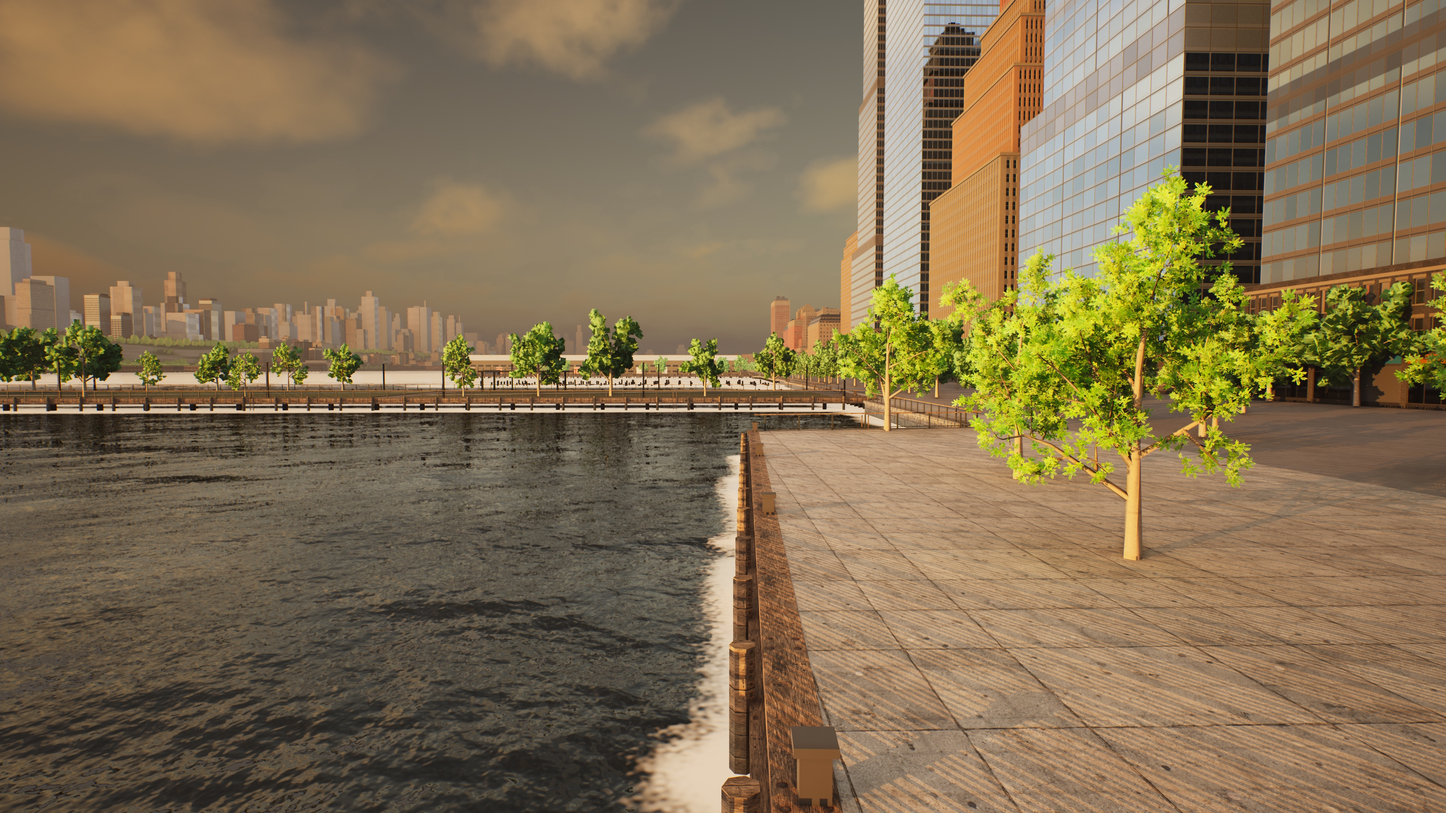
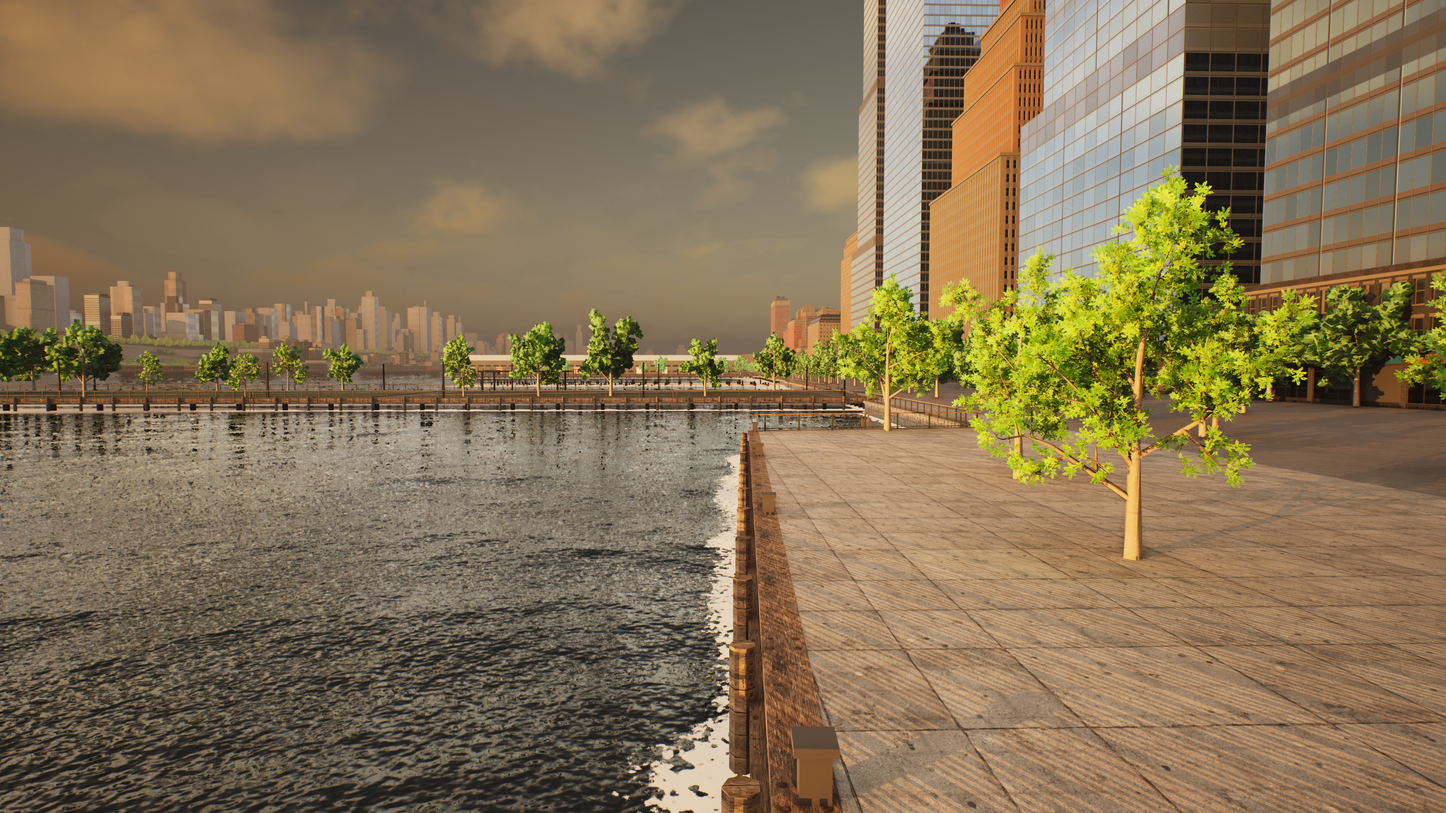
WIP water r05b: lace-everywhere foam (BreathK, CovMax 0.68, CBias 1.0, FoamTK 28) after the CovMax 0.9 build failed gate 2 (min pair 0.106); hold H script, static pair screen
Builder: Claude Sonnet 5.5 xhigh via Devin

Changed region(s): [[0.0, 0.4343, 0.625, 1.0]]

diff --git a/unreal/WebHomage/Scripts/build_water.py b/unreal/WebHomage/Scripts/build_water.py
@@ -371,8 +371,11 @@ float cf = 0.0, wf = 0.0, farF = 0.0, dbgC = 32.0, dbgL = 99.0;   // dbgC / dbgL
     float cdm = craw * %(cmax).1f;
     // r04: Dbg 4 showed no contact coverage at the river_low bulkhead (the depth test finds no geometry under the water there, and the
     //      0.9 m/px map reads 1.7 to 2.6 m at the built wall face: its contact line wanders +-3 m): the map term reaches CBias m further
-    float ce0 = 0.12 + CBias; dbgC = cdm;
-    cf = max(cf, 1.0 - smoothstep(ce0, max(0.45 + CBias * 0.5 + 1.5 * fn + 0.9 * lap, ce0 + 0.3), cdm));
+    // r05b: the band breathes with the swell (BreathK): a solid band wider than the gate's 60 px window cannot change between frames; the
+    //       lace has to fill the window and move (dolly gate 2: XOR / OR of the band masks at 4 fps, r05 build 0.197 min, CovMax 0.9 build 0.106)
+    float brt = 1.0 + BreathK * sin(t * BreathW + dot(p, float2(1.3, -0.9)) + 6.0 * fn);
+    float ce0 = (0.12 + CBias) * brt; dbgC = cdm;
+    cf = max(cf, 1.0 - smoothstep(ce0, max((0.45 + CBias * 0.5 + 1.5 * fn + 0.9 * lap) * brt, ce0 + 0.3), cdm));
     float foam = cf * (0.4 + 0.45 * lap) * smoothstep(0.25, 0.6, NZG(p / 3.1 + float2(-t * 0.02, t * 0.013), 1.0 / 3.1).r + 0.25 * lap) * FoamK;
     foam = max(foam, smoothstep(0.8, 1.0, crest) * smoothstep(0.55, 0.9, gust) * 0.2);
     // r05b: CovMax < 1 keeps the foam threshold above the noise floor (lace instead of a solid strip: the r05 band was one flat cream sheet
@@ -522,7 +525,7 @@ WP_MAPS = ('/Game/Maps/Manhattan_WP',)   # island piece's World Partition map(s)
 PARAMS = {'ChopK': 2.6, 'MicroK': 1.0, 'ScatK': 0.04, 'FarVarK': 0.1, 'FoamK': 1.8, 'BendK': 0.3, 'RoughN': 0.06, 'SpecK': 2.0,
           # r04 (far field from swing height, foam normal, perf): see docs/night1/water/round-04/NOTES.md
           'LongK': 3.0, 'FarRough': 0.2, 'TopVarK': 0.1, 'GrazeRough': 0.0, 'FoamNK': 3.0, 'GlitDist': 4000.0, 'GlitFar': 8.0,
-          'CBias': 0.7, 'SunClampK': 1.0, 'MidK': 2.0, 'ChopFar': 0.0,
+          'CBias': 1.0, 'SunClampK': 1.0, 'MidK': 2.0, 'ChopFar': 0.0,
           # r05: GrazeRough 0 (r04's 0.42 grazing floor blurred the far-shore reflection at river level: merge-blocker; perf is not this
           # round's gate). CSel: which contact-map texture (0 = T_WaterContact as r04, 1 = B: half-res Interchange + NeverStream,
           # 2 = C: half-res legacy TextureFactory; Dbg 9 showed all three read correctly in-engine). ShoreCalm: the far-field long-wave
@@ -533,8 +536,8 @@ PARAMS = {'ChopK': 2.6, 'MicroK': 1.0, 'ScatK': 0.04, 'FarVarK': 0.1, 'FoamK': 1
           # r05b: FarMaxM / FarLowK cap the far contact line (r05's FarPx footprints painted a 40 px white bar over the far quay at river
           # level); FarEmisK: the far line also as emission (candidate); CovMax / FoamTK / LapW: lacy, drifting near foam (gate 2: XOR / OR
           # fell to 0.2 where the solid band was widest); RCalm / LFa / LFb: river-level calm and the LongK ramp; GSpread: glitter facet spread
-          'FarMaxM': 16.0, 'FarLowK': 0.7, 'FarEmisK': 0.0, 'CovMax': 0.9, 'FoamTK': 14.0, 'LapW': 2.4, 'RCalm': 1.0, 'LFa': 100.0, 'LFb': 300.0,
-          'GSpread': 0.22, 'DistFix': 1.0}
+          'FarMaxM': 16.0, 'FarLowK': 0.7, 'FarEmisK': 0.0, 'CovMax': 0.68, 'FoamTK': 28.0, 'LapW': 2.4, 'RCalm': 1.0, 'LFa': 100.0, 'LFb': 300.0,
+          'GSpread': 0.22, 'DistFix': 1.0, 'BreathK': 0.3, 'BreathW': 2.2}
 if os.environ.get('SM2_WATER_PARAMS'): PARAMS.update(json.loads(os.environ['SM2_WATER_PARAMS']))
 
 

diff --git a/tools/water/r05/make_pack.py b/tools/water/r05/make_pack.py
@@ -61,11 +61,13 @@ P.append(pair_same('seawall-foam', R5 + '/crop_river_low_4k_seawall_foam.jpg', R
 P.append(pair_same('harbour-high', R5 + '/harbour_high_4k.jpg', REFS + 'skyline-perch-nm__nm_0846.jpg', 'high view over the city\'s river water at golden hour, sun behind or to the side'))
 P.append(pair_same('harbour-sun-high', R5 + '/harbour_sun_high_4k.jpg', REFS + 'waterfront-og__og_0244.jpg', 'high view over sunlit water at golden hour, facing the low sun'))
 P.append(pair_same('river-sun', R5 + '/river_sun_4k.jpg', REFS + 'waterfront-perch-trailer__eny_0149.jpg', 'low view across a river into the low sun'))
+P.append(pair_same('perch-river', R5 + '/S4_golden_4k.jpg', REFS + 'skyline-perch-dn__dn_1438.jpg', 'perch view over the river and the far shore at golden hour'))
 # the merged round-03 build against this one (same camera, same pixel size)
 P.append(pair_same('prev-vs-this-river-low', R5 + '/river_low_4k.jpg', R3 + '/river_low_4k.jpg', 'two builds of the same low river view'))
 P.append(pair_same('prev-vs-this-seawall-foam', R5 + '/crop_river_low_4k_seawall_foam.jpg', R3 + '/crop_river_low_4k_seawall_foam.jpg', 'two builds of the same crop: water against a timber seawall', w=1200))
 P.append(pair_same('prev-vs-this-harbour', R5 + '/harbour_high_4k.jpg', R3 + '/harbour_high_4k.jpg', 'two builds of the same high harbour view'))
 P.append(pair_same('prev-vs-this-river-sun', R5 + '/river_sun_4k.jpg', R3 + '/river_sun_4k.jpg', 'two builds of the same low view into the sun'))
+P.append(pair_same('prev-vs-this-perch', R5 + '/S4_golden_4k.jpg', R3 + '/S4_golden_4k.jpg', 'two builds of the same perch view over the river'))
 P.append(pair_video('prev-vs-this-dolly', R5 + '/river_low_dolly.mp4', R3 + '/river_low_dolly.mp4', 'two builds of the same 10 s river dolly along the seawall'))
 json.dump(P, open(os.path.join(CR, 'pairs.json'), 'w'), indent=1)
 pack = os.path.join(CR, 'pack')

diff --git a/tools/water/r05/static_pairs.py b/tools/water/r05/static_pairs.py
@@ -1,0 +1,22 @@
+"""Gate-2 screening without a dolly: XOR/OR of the seawall band masks between stills of the SAME camera 0.25 s apart (the dolly's camera motion
+adds change on top, so this is conservative), and gate-1 numbers of the first still.
+usage: static_pairs.py <dir with <name>_NN_tTTT.png> [more dirs]   (edge line = the fit of <ref crop>, default scratch r05g/crop_foam.jpg)"""
+import sys, glob, os, json, numpy as np, cv2
+sys.path.insert(0, '/Users/midir/sm2-n1/water/tools/water')
+import water_spec as ws
+REF = os.environ.get('FOAM_REF', '/Users/midir/sm2-n1/_scratch/water/r05g/crop_foam.jpg')
+A, _ = ws._wall_edge(cv2.imread(REF).astype(np.float32))
+for d in sys.argv[1:]:
+    fs = sorted(glob.glob(os.path.join(d, '*_t0*.png'))); prev = None; xs = []; area = []; rows = []
+    for f in fs:
+        fr = cv2.imread(f); s = fr.shape[1] / 3840.0; y0 = int(ws.FOAMCROP[1] * s)
+        Yd = ws.luma(fr.astype(np.float32))[y0:fr.shape[0]]
+        ex = (np.polyval(A, (np.arange(y0, fr.shape[0]) / s) - ws.FOAMCROP[1]) + ws.FOAMCROP[0]) * s
+        Wd, Md = ws._band(Yd, ex, win=int(60 * s)); area.append(int(Md.sum())); rows.append(round(float((Wd >= 12 * s).mean() * 100), 1))
+        if prev is not None:
+            u = (Md | prev).sum(); xs.append(round(float((Md ^ prev).sum() / u), 3) if u else 0.0)
+        prev = Md
+    im = cv2.imread(fs[0]); im4 = cv2.resize(im, (3840, 2160), interpolation=cv2.INTER_CUBIC) if im.shape[1] < 3840 else im
+    c = os.path.join(d, 'foam_crop.jpg'); cv2.imwrite(c, im4[1250:2160, 1500:2700]); g1 = ws.foam(c)
+    print(os.path.basename(d.rstrip('/')), 'xor/or pairs', xs, 'min', min(xs) if xs else None, 'area', area, 'rows>=6px@1080 share', rows,
+          '| gate1 (upscaled)', g1['band_px_mean'], g1['rows_ge12px_pct'])

diff --git a/docs/night1/water/SHOTLIST.md b/docs/night1/water/SHOTLIST.md
@@ -57,3 +57,12 @@ Round 05 targets (Fable target after r04; `tools/water/water_spec.py all <round-
 - HOLDS: river_low near hp >= 12, mean Y <= 80; dolly autocorr(80 px) <= 0.10; S4 C14 5..35; river_sun sparkle width >= 50 %; harbour_sun_high
   glints >= 0.5 %, path columns >= 50 %, median sparkle <= 6 px; harbour_high hp sd >= 7.5 (blob rule: isolated round decal blobs only).
 - Not this round: perf (re-measure only under an attended-Mac perf lock), river_low p99.5 / S4 haze (sky), the S4 billboard (island).
+
+Round 05b additions (Sonnet 5.5 xhigh; `tools/water/water_spec.py all <round-dir>` prints them in the r05 block; 4K native frames):
+- GATE, harbour_high contact line: unchanged definition (`tools/water/water_spec.py line`), edge from the foam-free round-04 frame.
+- GUARD, river_low far-water strip (x 0-2300, y 880-1200): share of pixels with Y >= 170 must stay <= r03 (4.2 %) + 3 pp (`tools/water/farshore.py`; the r05
+  first build's far contact line painted a flat white bar there: 13.3 %).
+- The seawall band (crop) is now lacy foam (CovMax / FoamTK / LapW), not a solid strip; the gate numbers are unchanged (>= 12 px on >= 60 % of rows,
+  XOR / OR >= 0.2 between every pair of 4 fps dolly samples).
+- Not scored: harbour_sun_high R-B <= 70 (the atmosphere's forward in-scatter, look piece).
+
